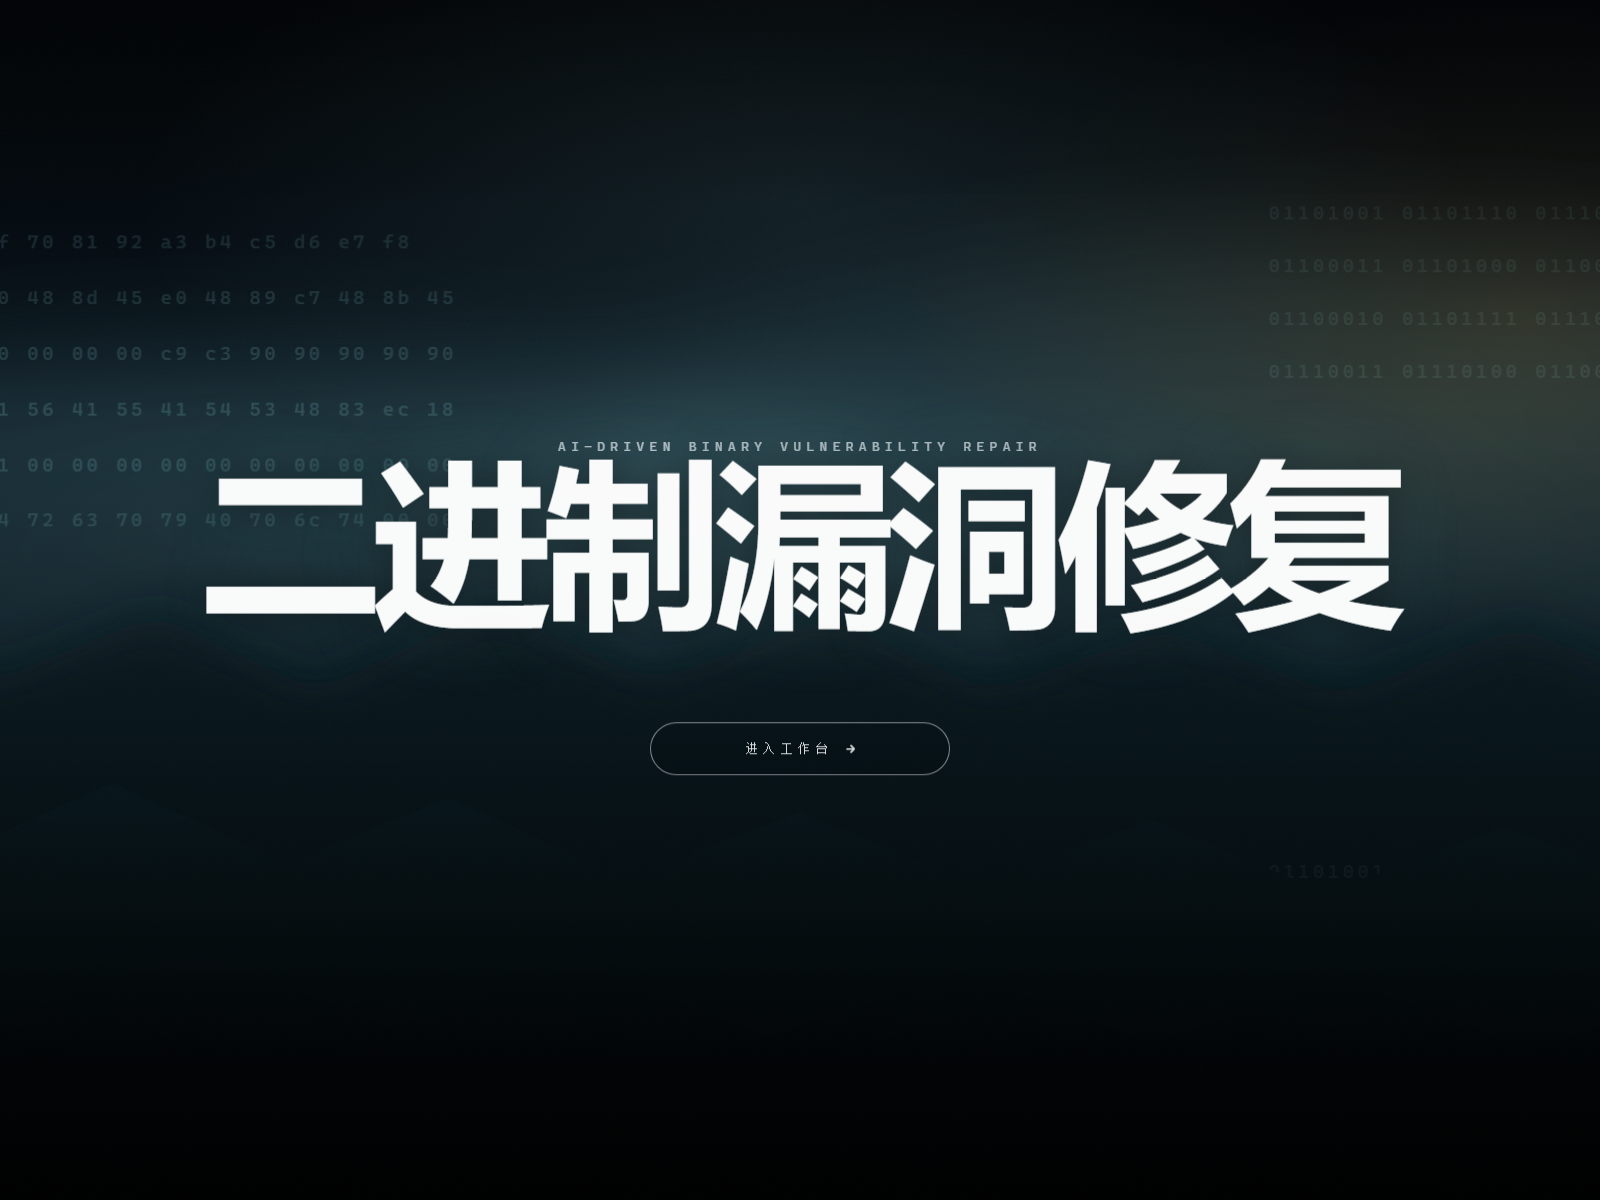
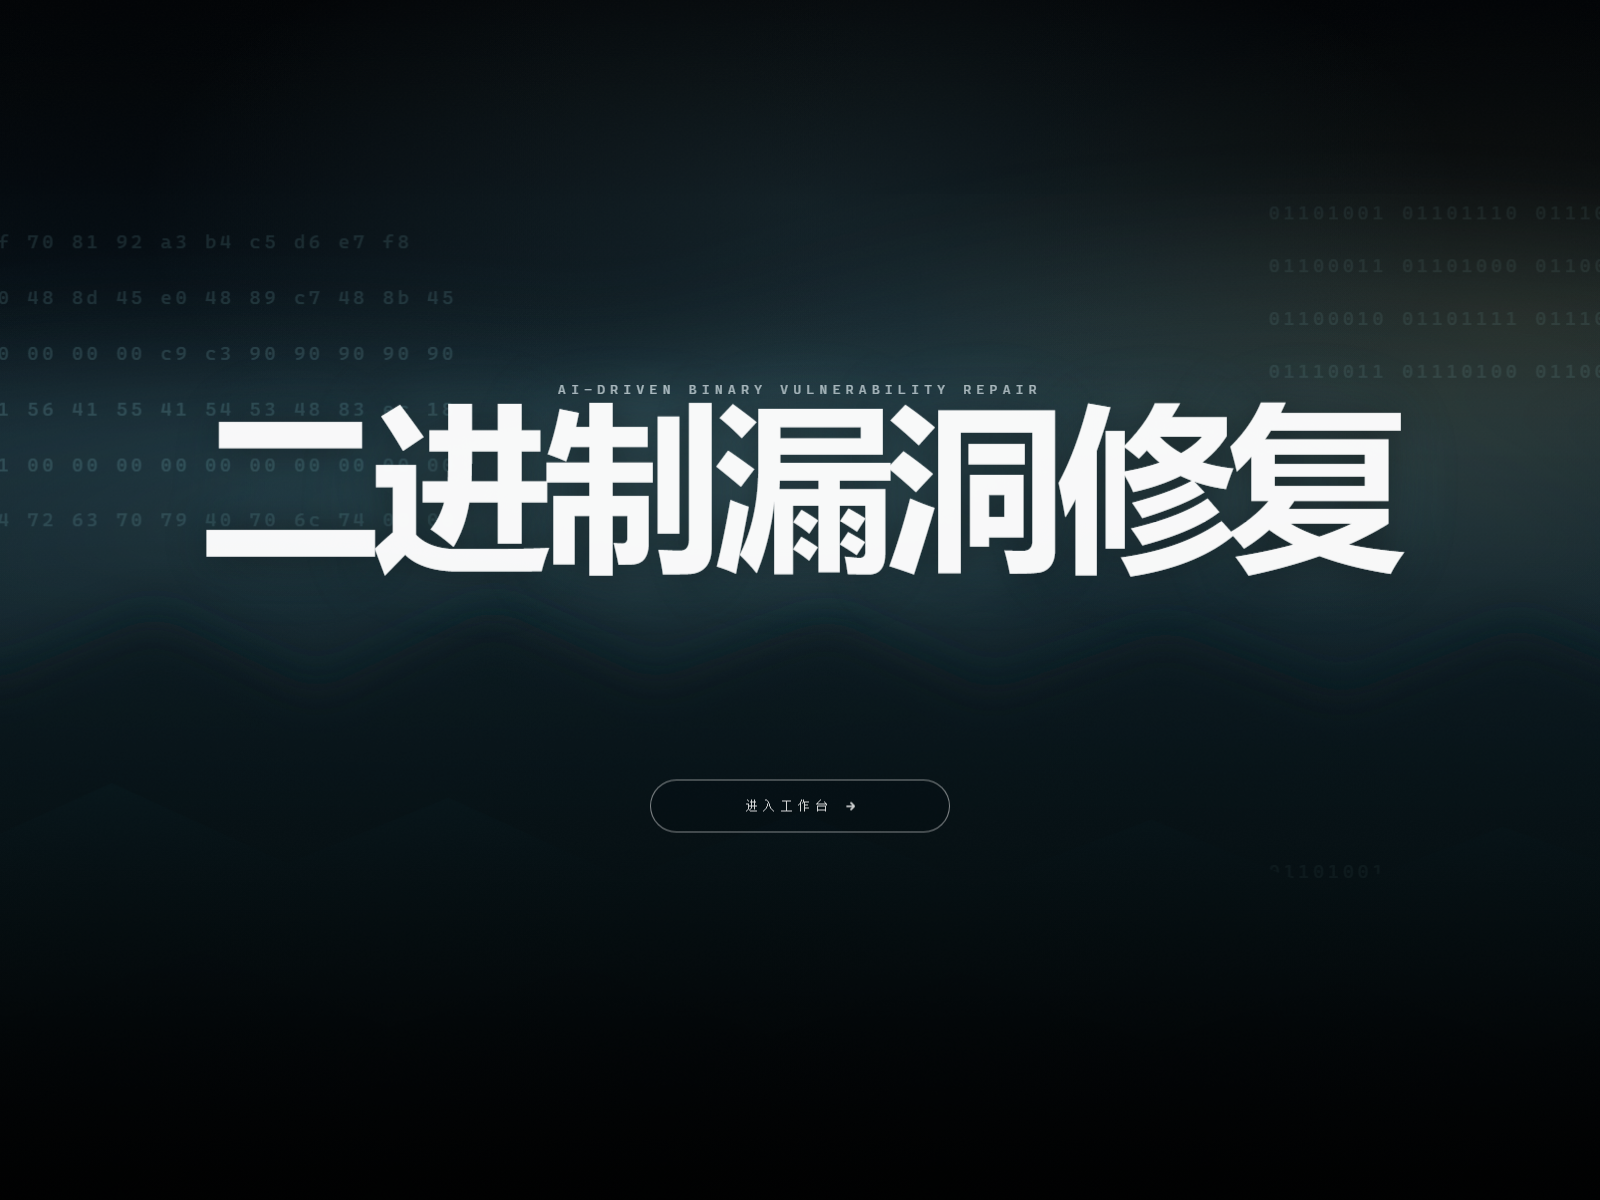
polish(landing): move the CTA lower with clear spacing; cache-bust paper styles

Changed region(s): [[0.125, 0.3083, 0.875, 0.5242], [0.4688, 0.6167, 0.5312, 0.6783]]

diff --git a/app/static/css/landing.css b/app/static/css/landing.css
@@ -24,7 +24,7 @@ body.landing {
 .hero-bg {
   position: fixed;
   inset: -2%;
-  background: url("/static/img/hero.svg") center 42% / cover no-repeat, #05090d;
+  background: url("/static/img/hero.svg?v=20261022b") center 42% / cover no-repeat, #05090d;
   transform: scale(1.02);
   animation: heroDrift 18s ease-out both;
 }
@@ -153,7 +153,7 @@ body.landing {
   z-index: 3;
   display: flex;
   justify-content: center;
-  margin-top: clamp(38px, 7vh, 76px);
+  margin-top: clamp(100px, 18vh, 190px);
   animation: riseIn 1000ms 320ms ease-out both;
 }
 .cta-pill {
@@ -299,11 +299,8 @@ body.landing {
   .hero { padding: 96px 22px 88px; }
   .hero-h1 { font-size: clamp(52px, 17vw, 120px); letter-spacing: -0.05em; }
   .hero-eyebrow { letter-spacing: 0.28em; }
-  .hero-info { bottom: 23vh; width: 88vw; }
-  .hero-cta { bottom: 12vh; }
+  .hero-cta { margin-top: clamp(72px, 14vh, 130px); }
   .cta-pill { min-width: 240px; padding: 14px 26px; }
-  .slide-arrow { width: 38px; height: 38px; font-size: 18px; }
-  .hero-meta { flex-direction: column; gap: 4px; align-items: center; text-align: center; }
 }
 @media (prefers-reduced-motion: reduce) {
   .hero-bg, .landing-nav, .hero-eyebrow, .hero-h1, .hero-info, .hero-cta, .hero-slider { animation: none !important; }

diff --git a/app/templates/base.html b/app/templates/base.html
@@ -4,7 +4,7 @@
   <meta charset="utf-8">
   <meta name="viewport" content="width=device-width, initial-scale=1">
   <title>{% block title %}BinaryRepair{% endblock %} · BinaryRepair</title>
-  <link rel="stylesheet" href="/static/css/app.css">
+  <link rel="stylesheet" href="/static/css/app.css?v=20261022b">
 </head>
 <body data-job-id="{{ job.id if job else '' }}" data-demo="{{ '1' if demo else '0' }}">
   <div class="app-bg" aria-hidden="true"></div>

diff --git a/app/templates/setup.html b/app/templates/setup.html
@@ -4,7 +4,7 @@
   <meta charset="utf-8">
   <meta name="viewport" content="width=device-width, initial-scale=1">
   <title>新建任务与契约复核 · BinaryRepair</title>
-  <link rel="stylesheet" href="/static/css/setup-handdrawn.css">
+  <link rel="stylesheet" href="/static/css/setup-handdrawn.css?v=20261022b">
 </head>
 <body class="paper" data-demo="0">
   <header class="paper-top">

diff --git a/app/templates/landing.html b/app/templates/landing.html
@@ -4,7 +4,7 @@
   <meta charset="utf-8">
   <meta name="viewport" content="width=device-width, initial-scale=1">
   <title>二进制漏洞修复 · BinaryRepair</title>
-  <link rel="stylesheet" href="/static/css/landing.css">
+  <link rel="stylesheet" href="/static/css/landing.css?v=20261022b">
 </head>
 <body class="landing">
   <div class="hero-bg" aria-hidden="true"></div>
